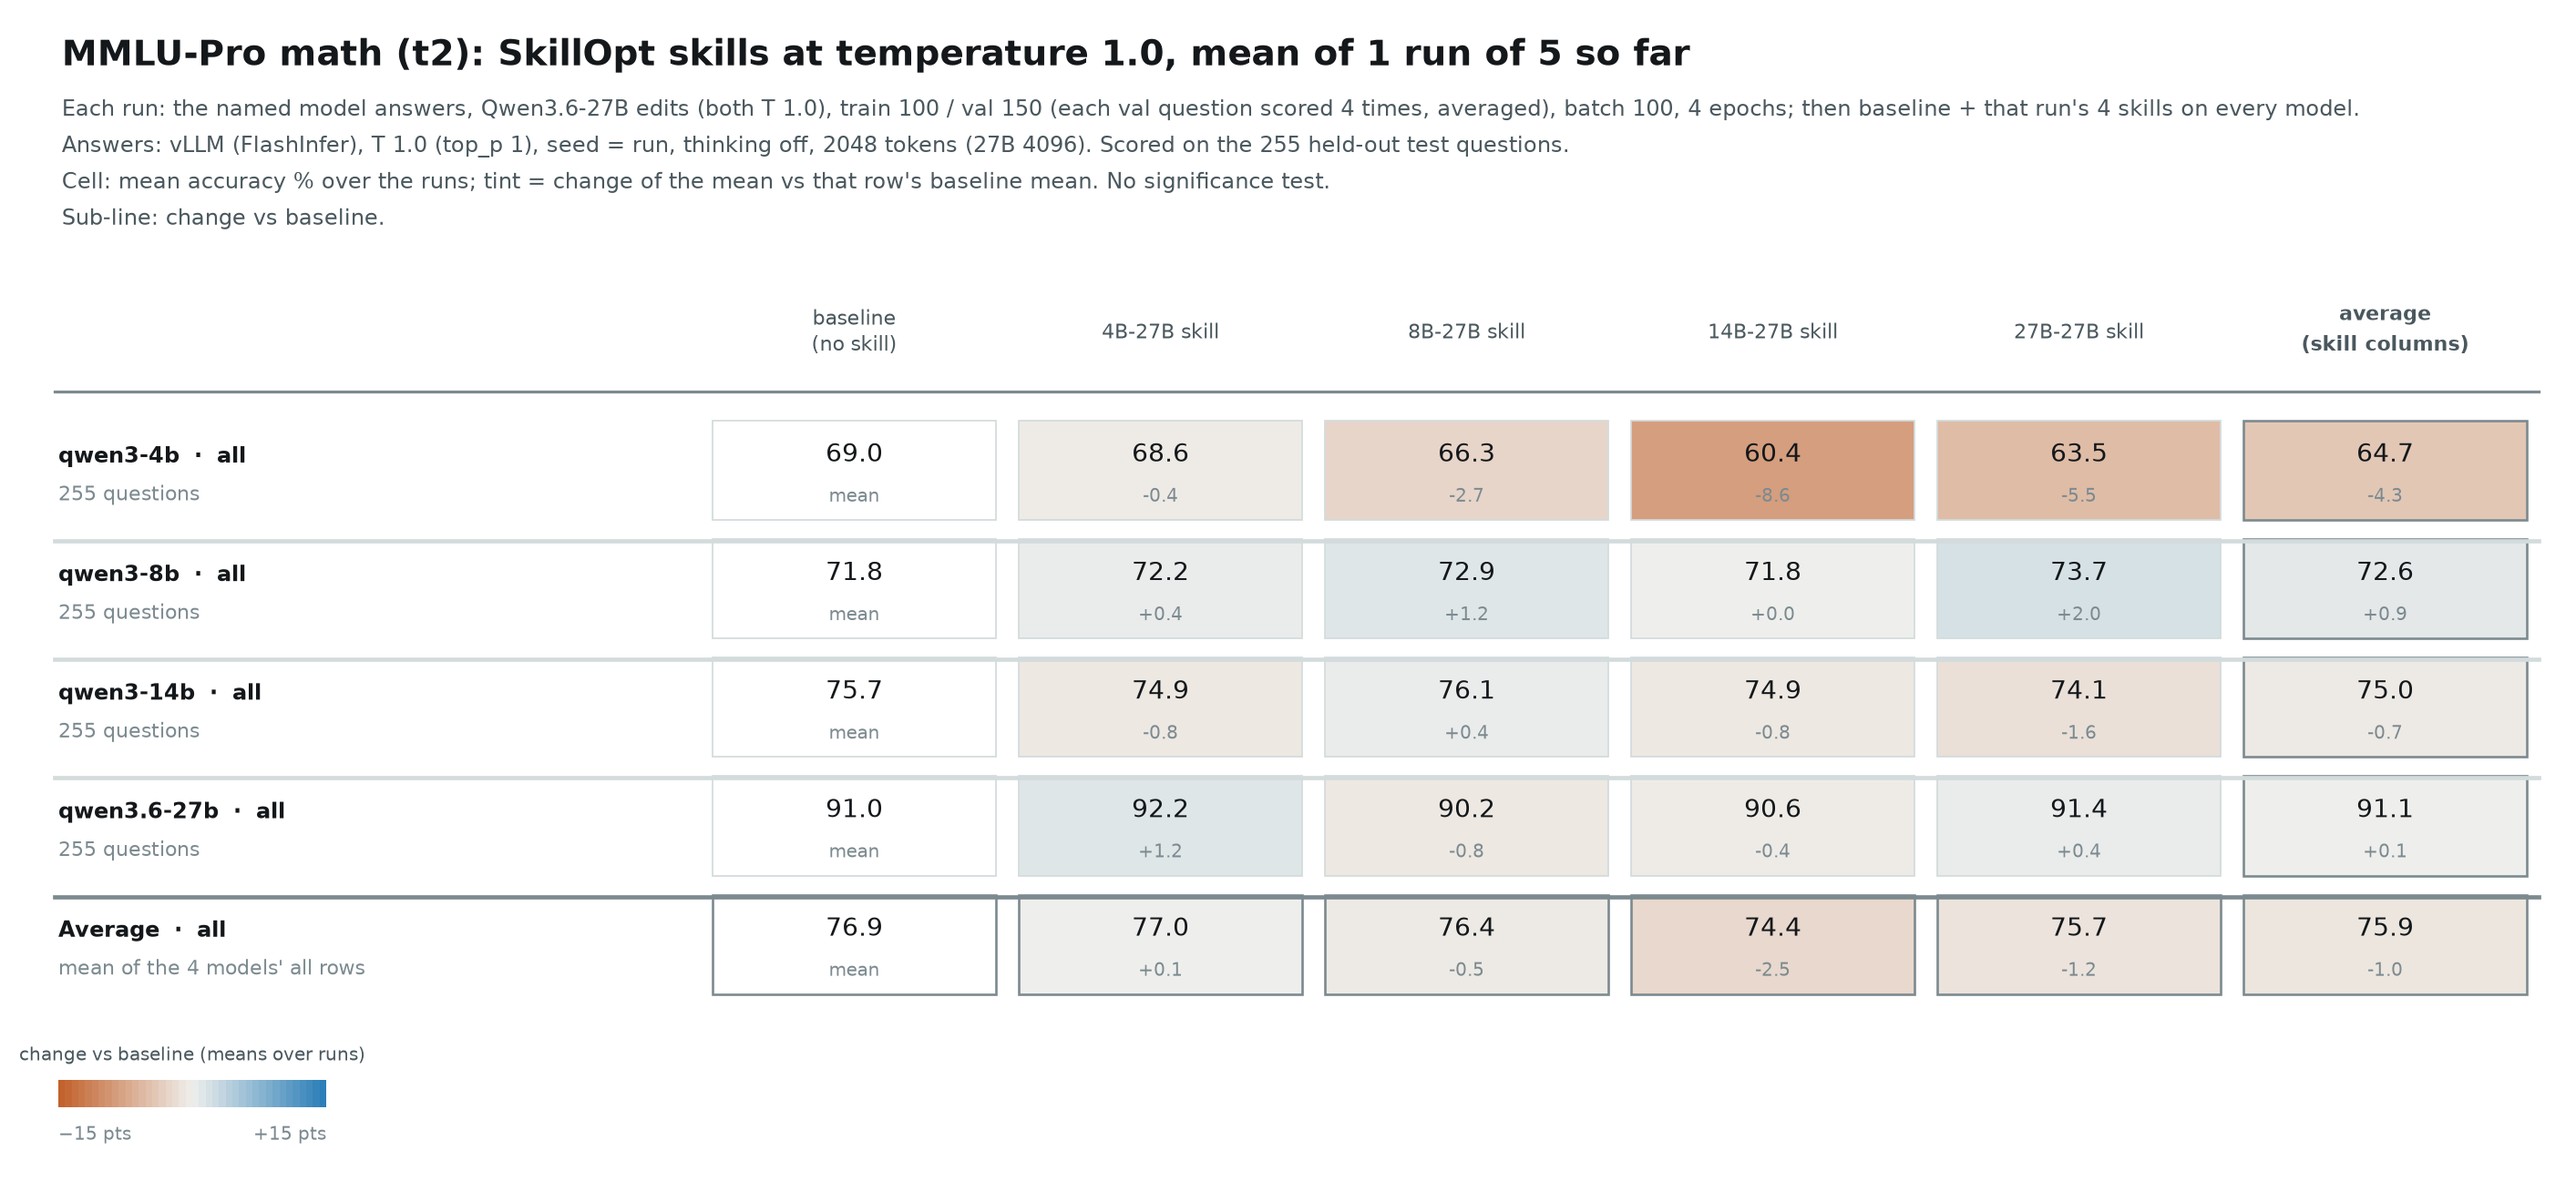
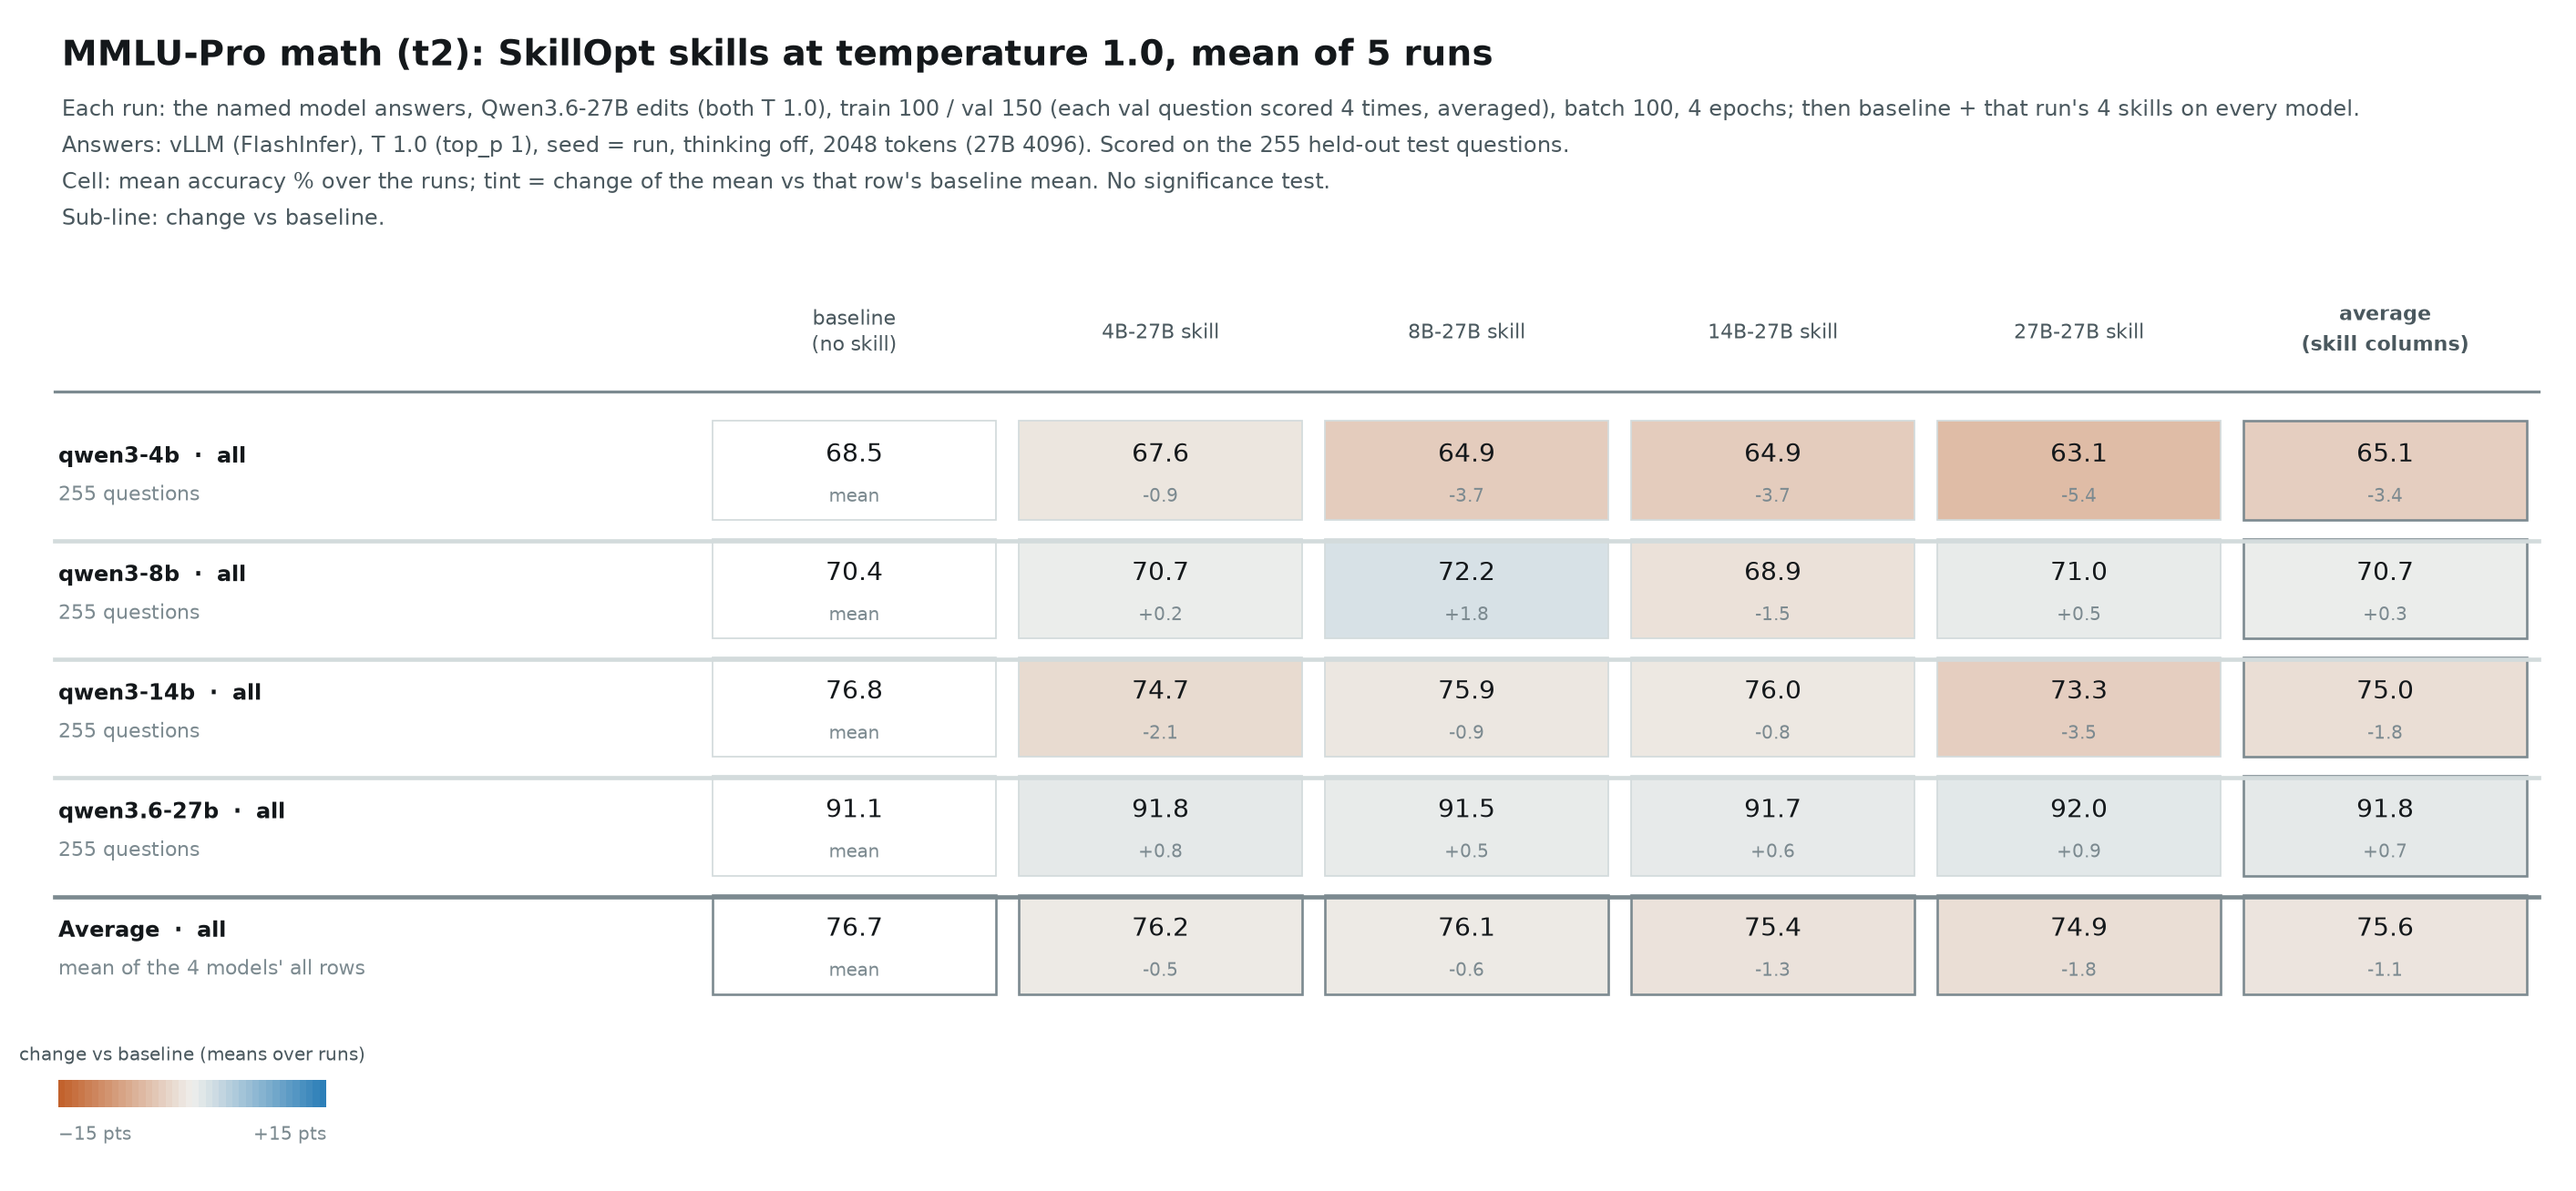
T1 table: hand-written elimination prompt column (+1.9 avg, 4B +3.3); T2 5-run table; elimination check queued before the batch sweep

diff --git a/skill_search/t1_mmlupro/table/results_table_mmlupro_t1.md b/skill_search/t1_mmlupro/table/results_table_mmlupro_t1.md
@@ -1,8 +1,8 @@
 Cells: mean of runs [1, 2, 3, 4, 5] [per-run accuracy %].
 
-| model | subset | n | baseline (no skill) | one-line prompt (no training) | 4B-27B skill | 8B-27B skill | 14B-27B skill | 27B-27B skill | average (skill columns) |
-|---|---|---|---|---|---|---|---|---|---|
-| qwen3-4b | all | 365 | 67.8 [69.3/69.6/66.0/66.8/67.1] | 69.8 [69.3/69.0/73.4/68.5/68.5] | 69.0 [70.7/67.7/68.5/70.1/68.2] | 66.5 [66.8/70.4/63.8/62.5/68.8] | 67.0 [66.8/62.7/70.1/69.6/65.5] | 67.3 [60.3/72.3/68.8/67.4/67.9] | 67.5 [66.2/68.3/67.8/67.4/67.6] |
-| qwen3-8b | all | 365 | 71.1 [69.6/72.6/71.2/69.6/72.3] | 71.8 [72.3/71.5/70.7/72.9/71.8] | 71.8 [72.9/70.7/71.8/71.8/71.8] | 71.3 [67.4/70.7/72.3/74.5/71.5] | 71.5 [71.2/71.0/71.8/71.0/72.3] | 69.6 [71.0/69.9/71.8/68.2/67.1] | 71.0 [70.6/70.5/71.9/71.4/70.7] |
-| qwen3-14b | all | 365 | 76.0 [76.7/76.2/75.9/76.2/75.1] | 77.1 [75.9/77.8/78.6/75.6/77.5] | 75.7 [75.9/74.2/76.7/76.4/75.1] | 74.2 [73.4/71.0/77.0/75.3/74.2] | 76.2 [75.3/78.1/74.2/77.5/75.6] | 76.5 [77.5/79.5/73.7/75.6/76.4] | 75.6 [75.5/75.7/75.4/76.2/75.3] |
-| qwen3.6-27b | all | 365 | 91.0 [92.9/91.0/91.8/89.9/89.6] | 92.4 [92.1/92.6/91.5/92.6/93.2] | 91.1 [92.3/91.5/89.9/90.4/91.2] | 91.4 [90.4/91.2/92.6/91.0/91.8] | 91.7 [91.2/92.3/91.8/91.8/91.5] | 91.3 [91.0/92.1/90.4/92.3/91.0] | 91.4 [91.2/91.8/91.2/91.4/91.4] |
+| model | subset | n | baseline (no skill) | one-line prompt (no training) | elimination prompt (no training) | 4B-27B skill | 8B-27B skill | 14B-27B skill | 27B-27B skill | average (skill columns) |
+|---|---|---|---|---|---|---|---|---|---|---|
+| qwen3-4b | all | 365 | 67.8 [69.3/69.6/66.0/66.8/67.1] | 69.8 [69.3/69.0/73.4/68.5/68.5] | 71.1 [71.0/71.5/70.1/71.8/71.2] | 69.0 [70.7/67.7/68.5/70.1/68.2] | 66.5 [66.8/70.4/63.8/62.5/68.8] | 67.0 [66.8/62.7/70.1/69.6/65.5] | 67.3 [60.3/72.3/68.8/67.4/67.9] | 67.5 [66.2/68.3/67.8/67.4/67.6] |
+| qwen3-8b | all | 365 | 71.1 [69.6/72.6/71.2/69.6/72.3] | 71.8 [72.3/71.5/70.7/72.9/71.8] | 73.0 [74.0/72.1/72.9/74.0/72.1] | 71.8 [72.9/70.7/71.8/71.8/71.8] | 71.3 [67.4/70.7/72.3/74.5/71.5] | 71.5 [71.2/71.0/71.8/71.0/72.3] | 69.6 [71.0/69.9/71.8/68.2/67.1] | 71.0 [70.6/70.5/71.9/71.4/70.7] |
+| qwen3-14b | all | 365 | 76.0 [76.7/76.2/75.9/76.2/75.1] | 77.1 [75.9/77.8/78.6/75.6/77.5] | 76.9 [75.6/76.2/78.9/76.4/77.3] | 75.7 [75.9/74.2/76.7/76.4/75.1] | 74.2 [73.4/71.0/77.0/75.3/74.2] | 76.2 [75.3/78.1/74.2/77.5/75.6] | 76.5 [77.5/79.5/73.7/75.6/76.4] | 75.6 [75.5/75.7/75.4/76.2/75.3] |
+| qwen3.6-27b | all | 365 | 91.0 [92.9/91.0/91.8/89.9/89.6] | 92.4 [92.1/92.6/91.5/92.6/93.2] | 92.5 [92.9/91.8/92.9/92.6/92.3] | 91.1 [92.3/91.5/89.9/90.4/91.2] | 91.4 [90.4/91.2/92.6/91.0/91.8] | 91.7 [91.2/92.3/91.8/91.8/91.5] | 91.3 [91.0/92.1/90.4/92.3/91.0] | 91.4 [91.2/91.8/91.2/91.4/91.4] |

diff --git a/skill_search/t1_mmlupro/table/results_table_mmlupro_t2.md b/skill_search/t1_mmlupro/table/results_table_mmlupro_t2.md
@@ -1,8 +1,8 @@
-Cells: mean of runs [1] [per-run accuracy %].
+Cells: mean of runs [1, 2, 3, 4, 5] [per-run accuracy %].
 
 | model | subset | n | baseline (no skill) | 4B-27B skill | 8B-27B skill | 14B-27B skill | 27B-27B skill | average (skill columns) |
 |---|---|---|---|---|---|---|---|---|
-| qwen3-4b | all | 255 | 69.0 [69.0] | 68.6 [68.6] | 66.3 [66.3] | 60.4 [60.4] | 63.5 [63.5] | 64.7 [64.7] |
-| qwen3-8b | all | 255 | 71.8 [71.8] | 72.2 [72.2] | 72.9 [72.9] | 71.8 [71.8] | 73.7 [73.7] | 72.6 [72.6] |
-| qwen3-14b | all | 255 | 75.7 [75.7] | 74.9 [74.9] | 76.1 [76.1] | 74.9 [74.9] | 74.1 [74.1] | 75.0 [75.0] |
-| qwen3.6-27b | all | 255 | 91.0 [91.0] | 92.2 [92.2] | 90.2 [90.2] | 90.6 [90.6] | 91.4 [91.4] | 91.1 [91.1] |
+| qwen3-4b | all | 255 | 68.5 [69.0/70.2/67.1/67.8/68.6] | 67.6 [68.6/64.7/65.9/69.0/69.8] | 64.9 [66.3/68.6/62.0/63.9/63.5] | 64.9 [60.4/66.7/60.8/67.5/69.0] | 63.1 [63.5/67.8/57.6/60.0/66.7] | 65.1 [64.7/67.0/61.6/65.1/67.3] |
+| qwen3-8b | all | 255 | 70.4 [71.8/72.9/71.0/67.5/69.0] | 70.7 [72.2/69.0/72.9/67.1/72.2] | 72.2 [72.9/69.4/74.1/72.9/71.8] | 68.9 [71.8/63.5/70.6/69.4/69.4] | 71.0 [73.7/71.4/70.6/72.2/67.1] | 70.7 [72.6/68.3/72.1/70.4/70.1] |
+| qwen3-14b | all | 255 | 76.8 [75.7/77.6/77.3/78.8/74.5] | 74.7 [74.9/74.1/72.5/77.3/74.5] | 75.9 [76.1/73.3/79.6/76.1/74.5] | 76.0 [74.9/74.5/78.0/77.6/74.9] | 73.3 [74.1/72.2/71.4/73.7/75.3] | 75.0 [75.0/73.5/75.4/76.2/74.8] |
+| qwen3.6-27b | all | 255 | 91.1 [91.0/92.2/89.0/90.6/92.5] | 91.8 [92.2/91.8/90.6/91.0/93.7] | 91.5 [90.2/92.9/92.5/91.8/90.2] | 91.7 [90.6/93.7/89.4/92.2/92.5] | 92.0 [91.4/92.5/92.2/92.9/91.0] | 91.8 [91.1/92.7/91.2/92.0/91.9] |
